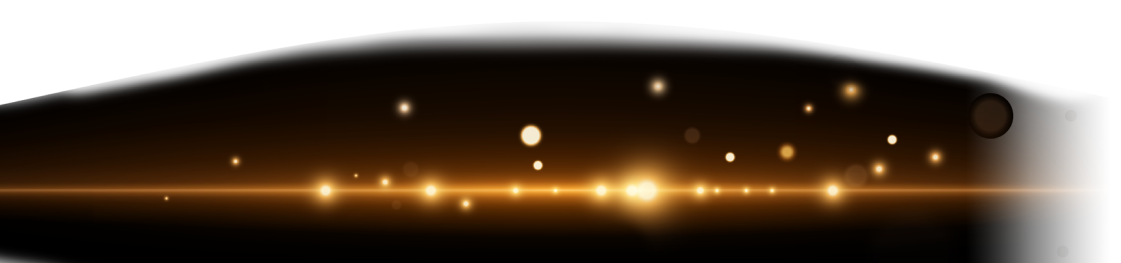
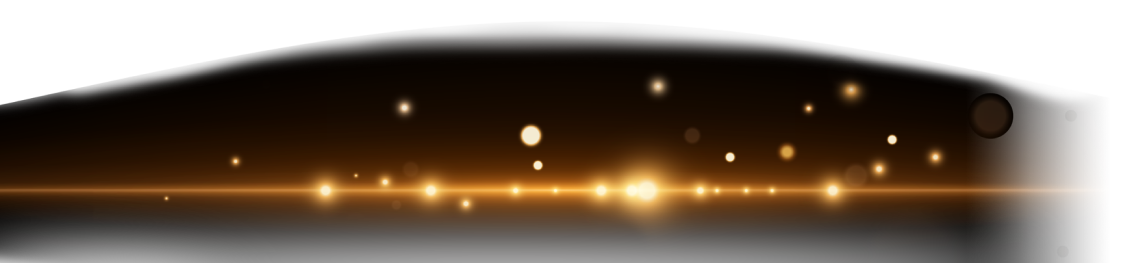
捷運動畫調正

Changed region(s): [[0.0, 0.7605, 0.9054, 1.0]]

diff --git a/src/section/s3.vue b/src/section/s3.vue
@@ -353,7 +353,7 @@ onBeforeUnmount(() => {
         </div>
       </div>
 
-      <div class="mrt" data-aos="fade-right">
+      <div class="mrt"  data-aos="fade-right" data-aos-duration="1000" data-aos-delay="600">
         <img class="base" src="@/section/s3/MRT.png" />
         <img class="blend" src="@/section/s3/MRT_m.png" />
       </div>
@@ -758,12 +758,13 @@ onBeforeUnmount(() => {
       overflow: hidden;
       width: size-m(465);
       height: size-m(95);
-      transform: translateX(-50%);
+      
+      // transform: translateX(-50%);
 
       @media screen and (min-width: 768px) {
         width: size(1299);
         height: size(263);
-        transform: translateX(0);
+        left:size(-650);
       }
 
       img {
